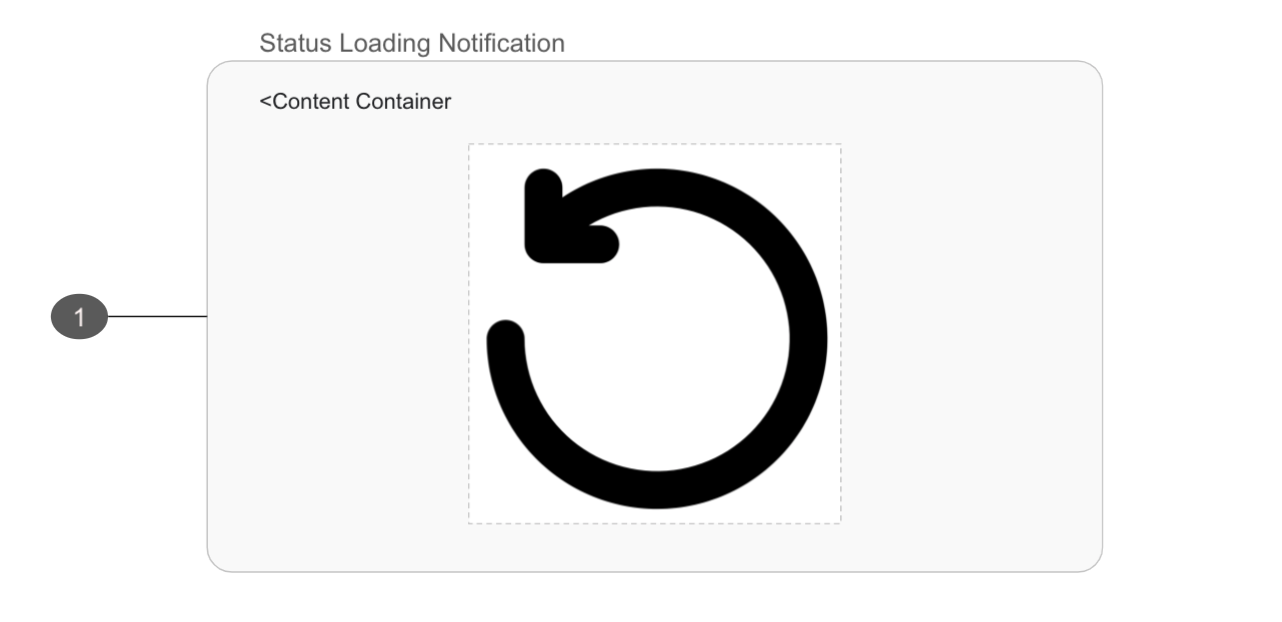
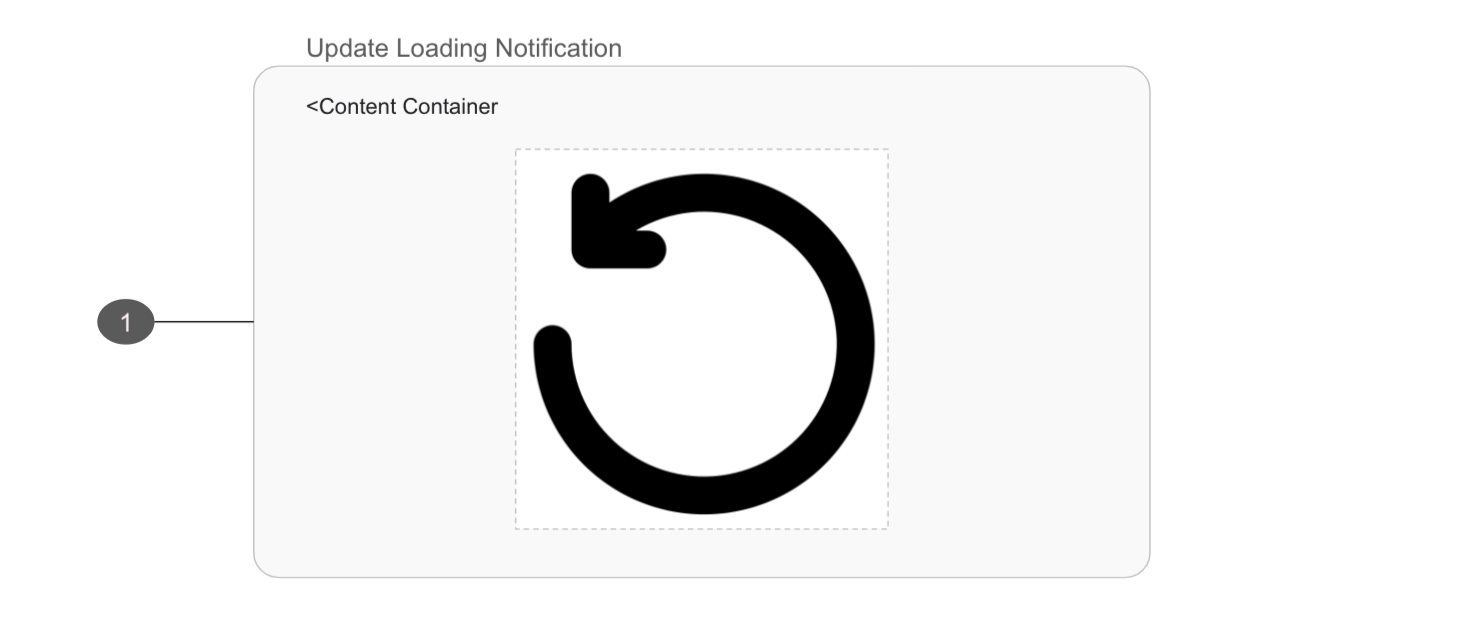
adding examples

diff --git a/docs/patterns/notifications/README.md b/docs/patterns/notifications/README.md
@@ -87,6 +87,9 @@ Update Notifications update existing inline page content.
 They inform users of advisory information that enhances the site experience such as quantity updates or busy states.
 Additionally, These notifications often only update a specific part of an inline content section.
 
+It is important to grasp that many visual transitions are actually update notifications and should provide contextual information to our users. 
+This can be added in the form of screen reader only text, though consider if the action without context will create any cognitive dissonance for our visual users.
+Remember to create sufficient Visual feedback as many update notifications are unassociated triggering action.
 #### At A Glance
 <cdr-table class="advanced-table" full-width=false>
   <tr>
@@ -125,10 +128,6 @@ Additionally, These notifications often only update a specific part of an inline
 
 #### Use When
 
-It is important to grasp that many visual transitions are actually update notifications and should be providing contextual information to our users. 
-This can be provided in the form of screen reader only text, though consider if the action without context will create any cognitive dissonance for our users.
-Additionally, as many update notifications are not associated with the action that launches them considerations towards sufficient Visual feedback are important.
-
 - Providing loading icons or states
 - Informing users that the application is busy
 - Incrementing results or items
@@ -140,8 +139,12 @@ Additionally, as many update notifications are not associated with the action th
 - The notification does not relate to an actionable element in a busy state
 - The content added to the page is important or needs attention
 - For delivery of messaging
-- During the appearance / disappearance of content following a user interaction which is also announced to assistive technology 
-- The User interacts with a panel system such as tabs or accordion, whose selected tab is announced already to assistive technology
+- During the appearance / disappearance of content following a user interaction which is also announced to assistive technology such as the following:
+  - tab
+  - accordion
+  - dialog
+  - popover
+  - tooltip
 
 #### Anatomy of a Update Notification
 
@@ -238,7 +241,7 @@ Update Notifications will often be used to represent loading icons or submitting
     ```
 date content in locations unrelated to the action which caused the notification to appear
 
-#### Update Notification Examples
+#### Examples that should be Update Notifications
 <cdr-list modifier="unordered">
   <li>
     <figure>
@@ -274,9 +277,21 @@ date content in locations unrelated to the action which caused the notification 
       <figcaption>
         <cdr-caption
         summary=" After a user selects the 'Bontrager' filter on the Mountain Bike Helmets search results page the 'Mountain Bike Helmets
-    (number of results)' updates to 'Bontrager Mountain Bike Helmets (5 results), ensuring is marked up as a notification will ensure users of assistive technology are informed of this update.'"/>
+    (number of results)' updates to 'Bontrager Mountain Bike Helmets (5 results)', ensuring this is marked up as a notification enable users of assistive technology stay informed of this update."/>
       </figcaption>
     </figure>
+  </li>
+  <li>
+    <figure>
+      <cdr-img :src="$withBase('/notifications/quantityUpdate.png')" alt="An example on REI.com of this notifications" width="500px"/>
+      <figcaption>
+        <cdr-caption
+        summary=" A user updates the quantity of an item in the shopping cart, multiple items are updated to reflect this change including the item price, the order summary subtotal, order total, and total and savings of the shopping cart"/>
+      </figcaption>
+    </figure>
+  </li>
+  <li>
+   removing an item from wish list
   </li>
 </cdr-list>
 
@@ -294,7 +309,7 @@ Content container:
 Status Notifications apply the `role="status"` to their HTML markup.
 They will not interrupt a user from a task they are engaged in, and are provided on user action rather than as part of the page. 
 These event based notifications differ from Update Notifications as they do not update live, existing inline sections of a page.
-They provide information that will help users make a decisions or provide warnings about selections they have made.
+They provide information which will help users make a decision, communicate statuses, or provide feedback about selections that have been have made.
 These notifications may open or be added to locations unrelated to the action which caused the notification to trigger.
 Additionally, they may open based on conditions a user has created or criterium they have met.
 
@@ -339,7 +354,6 @@ Additionally, they may open based on conditions a user has created or criterium 
 - As confirmation that a task or process initiated by the user was completed successfully 
 
 - As confirmation that a task was completed successfully (See Success Type)
-- As contextual information that might need their attention (See Informational Type)
 #### Don't Use When
 - presenting the user additional actions to take (see [modal](../../components/modal/))
 - The UI is presented as a dialog that requires a user action, on which the focus is set (see [modal](../../components/modal/))
@@ -456,6 +470,24 @@ If the notification must include an actionable element you are responsible for t
       <figcaption>
         <cdr-caption
         summary="After a user selects 'Set as my REI' for and REI store a 'saved' notification overlay displays. Assistive technology should inform users of the busy state."/>
+      </figcaption>
+    </figure>
+  </li>
+  <li>
+    <figure>
+      <cdr-img :src="$withBase('/notifications/locationStatus.png')" alt="" width="500px"/>
+      <figcaption>
+        <cdr-caption
+        summary="A user navigates to the classes and events landing page and is asked to enable location services."/>
+      </figcaption>
+    </figure>
+  </li>
+  <li>
+    <figure>
+      <cdr-img :src="$withBase('/notifications/wishlist.png')" alt="" width="500px"/>
+      <figcaption>
+        <cdr-caption
+        summary="The user adds an item to their wishlist"/>
       </figcaption>
     </figure>
   </li>
